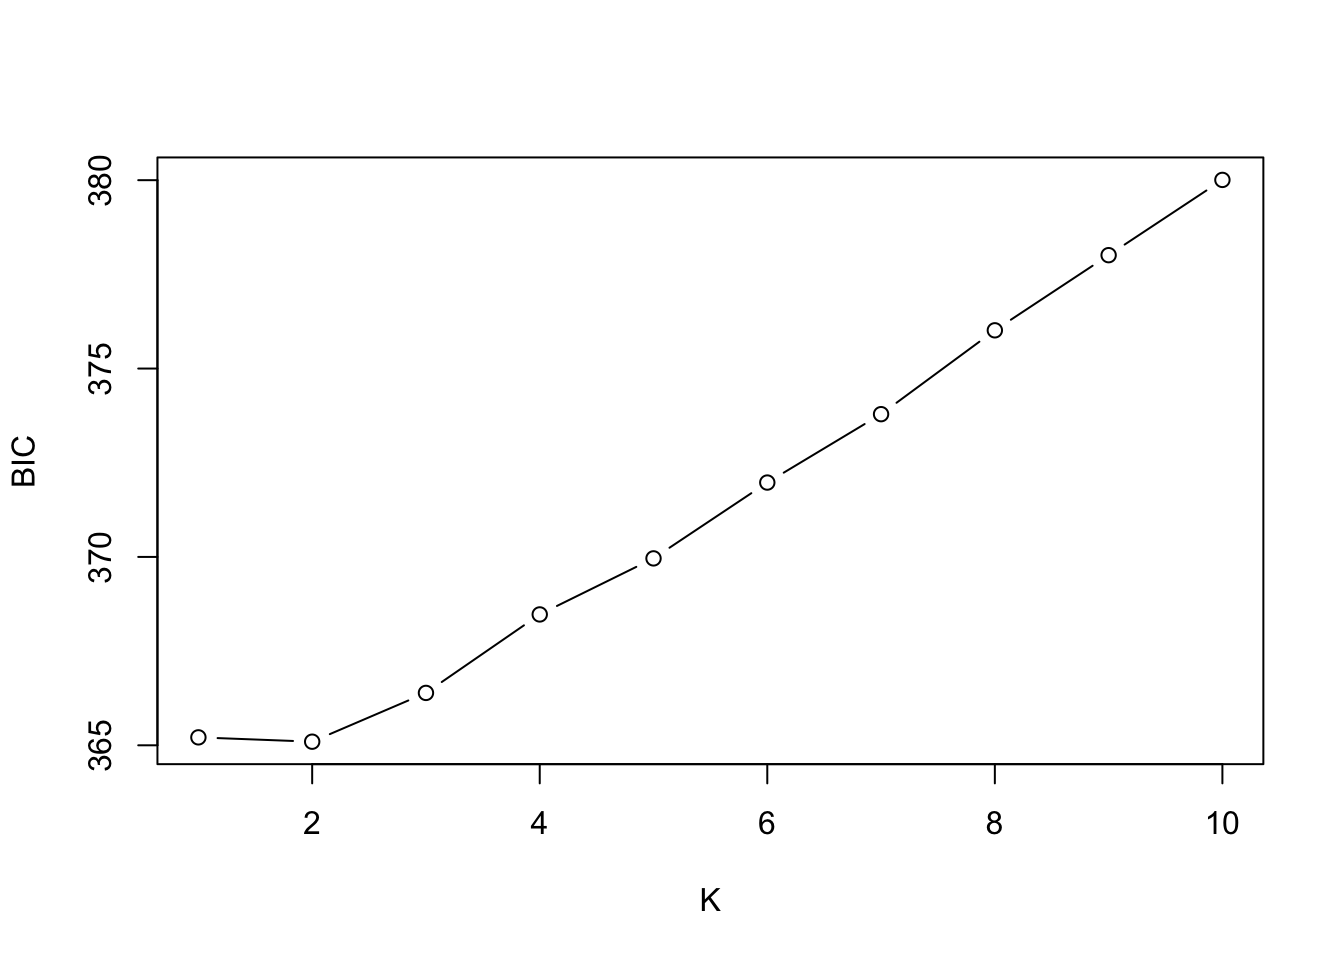
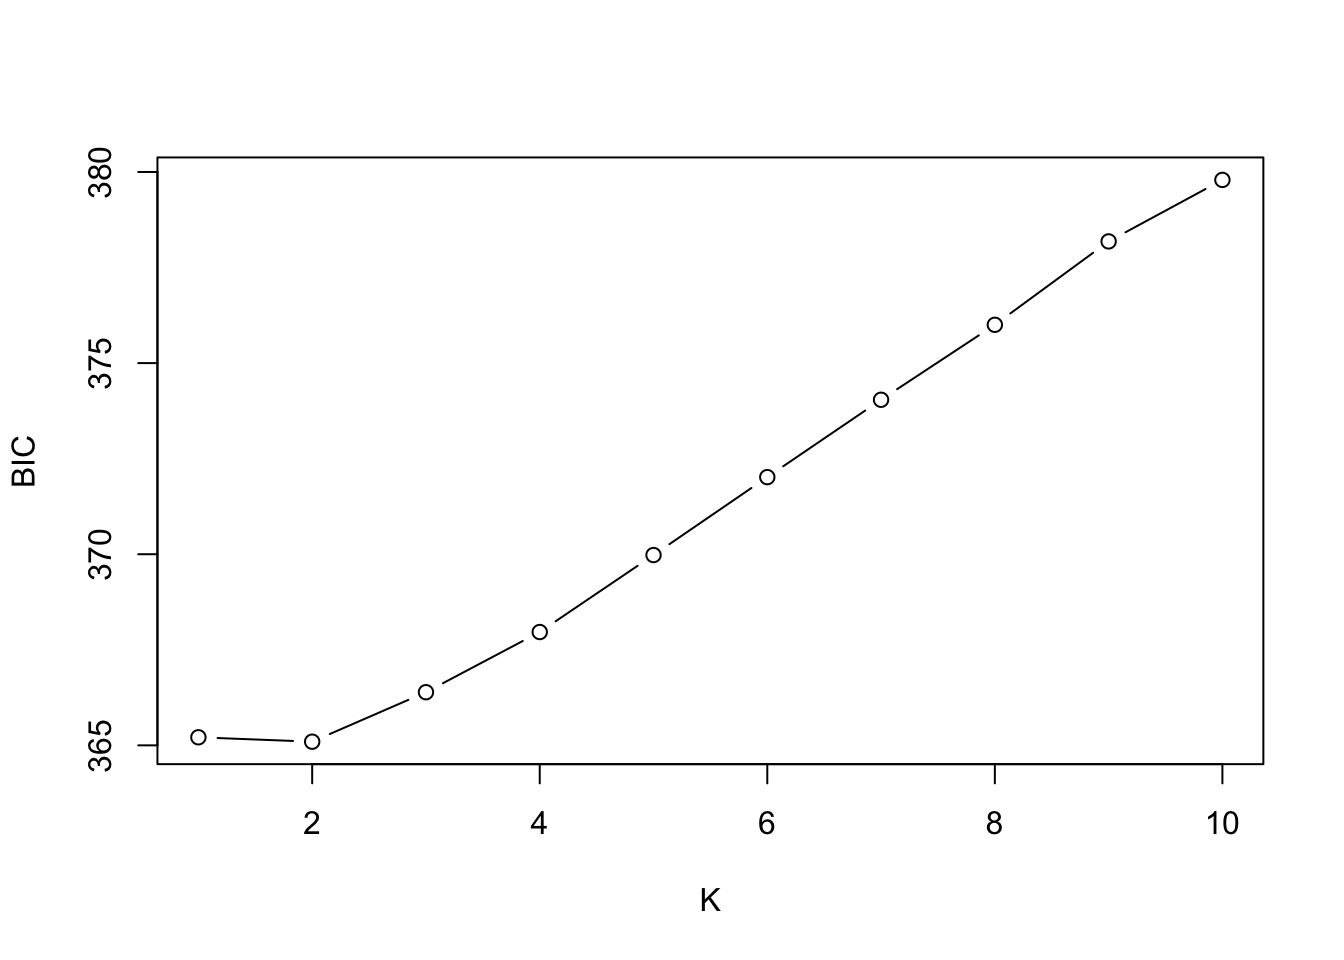
add HW #

diff --git a/docs/structure.html b/docs/structure.html
@@ -560,9 +560,9 @@ $eig (eigenvalues): 2986  vector    length content
 <span id="cb29-11"><a href="#cb29-11" aria-hidden="true" tabindex="-1"></a>grp_auto<span class="sc">$</span>Kstat</span></code></pre></div><button title="Copy to Clipboard" class="code-copy-button"><i class="bi"></i></button></div>
 <div class="cell-output cell-output-stdout">
 <pre><code>     K=1      K=2      K=3      K=4      K=5      K=6      K=7      K=8 
-365.2108 365.0958 366.3905 368.4736 369.9612 371.9741 373.7892 376.0147 
[phone redacted].3905 367.9647 369.9784 372.0171 374.0408 376.0022 
      K=9     K=10 
-378.0095 380.0070 </code></pre>
[phone redacted] </code></pre>
 </div>
 <div class="code-copy-outer-scaffold"><div class="sourceCode cell-code" id="cb31"><pre class="sourceCode r code-with-copy"><code class="sourceCode r"><span id="cb31-1"><a href="#cb31-1" aria-hidden="true" tabindex="-1"></a><span class="co"># plot!</span></span>
 <span id="cb31-2"><a href="#cb31-2" aria-hidden="true" tabindex="-1"></a><span class="fu">plot</span>(</span>

diff --git a/docs/index.html b/docs/index.html
@@ -324,7 +324,7 @@ ul.task-list li input[type="checkbox"] {
 <td>4/27 - 5/1</td>
 <td>Species Trees and Phylogenomics</td>
 <td><ul>
-<li><a href="./tree.html"><strong>Phylogenetic Inference with <code>IQTREE</code></strong></a></li>
+<li><a href="./tree.html"><strong>Phylogenetic Inference with <code>IQTREE</code> (HW13)</strong></a></li>
 <li><a href="https://doi.org/10.1093/sysbio/syaa053">Poelstra et al.&nbsp;2021</a> <a href="papers/poelstra_et_al_2021.pdf">(<strong>pdf</strong>)</a></li>
 </ul></td>
 </tr>

diff --git a/docs/scans.html b/docs/scans.html
@@ -210,7 +210,7 @@ window.Quarto = {
 Summary:
 
     - input file:               data/salvelinus.vcf
-    - output file:              /var/folders/1j/bh_1nty95dg1md7_3hxwkkww65f186/T//RtmpB7SuHy/file1645d4912b94c.pcadapt
+    - output file:              /var/folders/1j/bh_1nty95dg1md7_3hxwkkww65f186/T//RtmpPHa5rV/file303a79bf7f42.pcadapt
 
     - number of individuals detected:   267
     - number of loci detected:      24337

diff --git a/docs/tree.html b/docs/tree.html
@@ -162,7 +162,7 @@ pre > code.sourceCode > span > a:first-child::before { text-decoration: underlin
 <span id="cb1-9"><a href="#cb1-9" aria-hidden="true" tabindex="-1"></a>  <span class="ex">-</span> tabix</span>
 <span id="cb1-10"><a href="#cb1-10" aria-hidden="true" tabindex="-1"></a>  <span class="ex">-</span> git</span></code></pre></div><button title="Copy to Clipboard" class="code-copy-button"><i class="bi"></i></button></div>
 <div class="code-copy-outer-scaffold"><div class="sourceCode" id="cb2"><pre class="sourceCode bash code-with-copy"><code class="sourceCode bash"><span id="cb2-1"><a href="#cb2-1" aria-hidden="true" tabindex="-1"></a><span class="ex">mamba</span> env create <span class="at">-f</span> iqtree.yaml</span></code></pre></div><button title="Copy to Clipboard" class="code-copy-button"><i class="bi"></i></button></div>
-<p>We will also need a handy utility called <code>vcf2phylip</code> for converting <code>.vcf</code> files into a format called <code>PHYLIP</code>, developed for [a program of the same name] by Joe Felsenstein (my graduate school phylogenetics professor). These plain-text files begin with a line indicating the number of samples (here, 50) and sites (35529) in the sequence alignment. Each row begins with the name of a sample, is followed by a tab space, and then concludes with all sequences in a single row, with missing data represented by the character <code>N</code>:</p>
+<p>We will also need a handy utility called <code>vcf2phylip</code> for converting <code>.vcf</code> files into a format called <code>PHYLIP</code>, developed for <a href="https://phylipweb.github.io/phylip/">a program of the same name</a> by Joe Felsenstein (my graduate school phylogenetics professor). These plain-text files begin with a line indicating the number of samples (here, 50) and sites (35529) in the sequence alignment. Each row begins with the name of a sample, is followed by a tab space, and then concludes with all sequences in a single row, with missing data represented by the character <code>N</code>:</p>
 <div class="code-copy-outer-scaffold"><div class="sourceCode" id="cb3"><pre class="sourceCode bash code-with-copy"><code class="sourceCode bash"><span id="cb3-1"><a href="#cb3-1" aria-hidden="true" tabindex="-1"></a><span class="ex">50</span> 35529</span>
 <span id="cb3-2"><a href="#cb3-2" aria-hidden="true" tabindex="-1"></a><span class="ex">mleh019_r01_p1h12</span>   GRGCCYCGAGAGC.....</span>
 <span id="cb3-3"><a href="#cb3-3" aria-hidden="true" tabindex="-1"></a><span class="ex">mleh020_r01_p2c06</span>   GGGCCTCGAGAGC.....</span></code></pre></div><button title="Copy to Clipboard" class="code-copy-button"><i class="bi"></i></button></div>